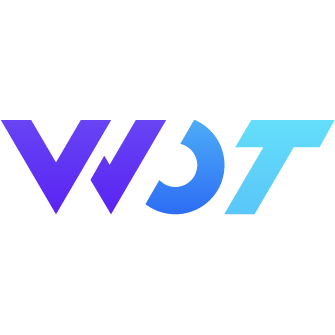
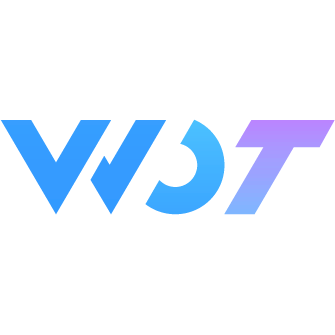
docs: ✏  README文档调整

Changed region(s): [[0.0, 0.3582, 0.5075, 0.6567], [0.6567, 0.3582, 1.0, 0.6567], [0.4179, 0.3881, 0.6866, 0.6567]]

diff --git a/docs/.vitepress/config.ts b/docs/.vitepress/config.ts
@@ -1,7 +1,7 @@
 /*
  * @Author: weisheng
  * @Date: 2023-07-27 10:26:09
- * @LastEditTime: 2023-08-01 10:09:21
+ * @LastEditTime: 2023-08-01 13:09:48
  * @LastEditors: weisheng
  * @Description: 
  * @FilePath: \wot-design-uni\docs\.vitepress\config.ts
@@ -11,7 +11,7 @@ import { defineConfig } from 'vitepress';
 
 export default defineConfig({
   title: `Wot Design Uni`,
-  description: '一个基于Vue3构建的uni-app组件库',
+  description: '一个参照Wot-design打造的uni-app组件库',
   head: [
     ['link', { rel: 'icon', href: '/favicon.ico' }],
     ['script', {}, `
@@ -65,6 +65,8 @@ export default defineConfig({
           { text: 'uni-mini-router', link: 'https://gitee.com/fant-mini/uni-mini-router' },
           { text: 'uni-mini-ci', link: 'https://gitee.com/fant-mini/uni-mini-ci' },
           { text: 'fant-mini-plus', link: 'https://fant-mini-plus.top/fant-mini-plus/' },
+          { text:'wot-design',  link:'https://ftf.jd.com/wot-design/' },
+          { text:'wot-design-mini', link:'https://ftf.jd.com/wot-design-mini/' }
         ],
       },
     ],

diff --git a/docs/.vitepress/theme/styles/vars.css b/docs/.vitepress/theme/styles/vars.css
@@ -42,8 +42,8 @@
   --vp-home-hero-name-color: transparent;
   --vp-home-hero-name-background: -webkit-linear-gradient(
     120deg,
-    #bd34fe 30%,
-    #4d80f0
+    #4d80f0 30%,
+    #bd34fe
   );
 
   --vp-home-hero-image-background-image: linear-gradient(

diff --git a/README.md b/README.md
@@ -1,12 +1,37 @@
-# Wot Design Uni
+<p align="center">
+    <img alt="logo" src="./docs/public/wot-design.png" width="200">
+</p>
+<h1 align="center">Wot Design Uni</h1>
 
-Wot Design Uni是一个基于Wot-design开发的uni-app组件库
+<p align="center">📱 一个参照<a href="https://ftf.jd.com/wot-design/">Wot-design</a>，基于 Vue3 打造的uni-app组件库</p>
 
-[文档](https://wot-design-uni.netlify.app/)
+<p align="center">
+  <a href="https://app.netlify.com/sites/wot-design-uni/deploys" target="_blank" referrerpolicy="no-referrer">
+    <img src="https://api.netlify.com/api/v1/badges/0991d8a9-0fb0-483b-8961-5bde066bbd50/deploy-status" alt="deploy-status" />
+  </a>
+</p>
 
-# 部署状态
+<p align="center">
+  🔥 <a href="https://wot-design-uni.netlify.app/">文档网站 (Netlify)</a>
+</p>
 
-[![Netlify Status](https://api.netlify.com/api/v1/badges/0991d8a9-0fb0-483b-8961-5bde066bbd50/deploy-status)](https://app.netlify.com/sites/wot-design-uni/deploys)
+
+## ✨ 特性
+
+- 🚀 支持 APP、H5、微信小程序、支付宝小程序、钉钉小程序 等平台.
+- 🚀 50+ 个高质量组件，覆盖移动端主流场景.
+- 💪 使用 Typescript 构建，提供良好的组件类型系统.
+- 💪 采用 Vue3 最新特性，提升组件性能.
+- 📖 提供丰富的文档和组件示例.
+- 🎨 支持主题定制，可以定制scss变量以及组件的样式自定义.
+
+## 📱 预览
+
+手机扫描上的二维码访问演示：
+
+<img src="./docs/public/wx.jpg" width="200" height="200" style="margin-right:30px"/>
+<img src="./docs/public/alipay.png" width="200" height="200" />
+
 
 ## 安装
 

diff --git a/docs/index.md b/docs/index.md
@@ -2,12 +2,12 @@
 layout: home
 
 title: Wot Design Uni
-titleTemplate: 一个基于Wot-design开发的uni-app组件库
+titleTemplate: 一个参照Wot-design打造的uni-app组件库
 
 hero:
   name: Wot Design Uni
   text:
-  tagline: 一个基于Wot-design开发的uni-app组件库
+  tagline: 一个参照Wot-design打造的uni-app组件库
   image:
     src: /wot-design.png
     alt: Wot Design
